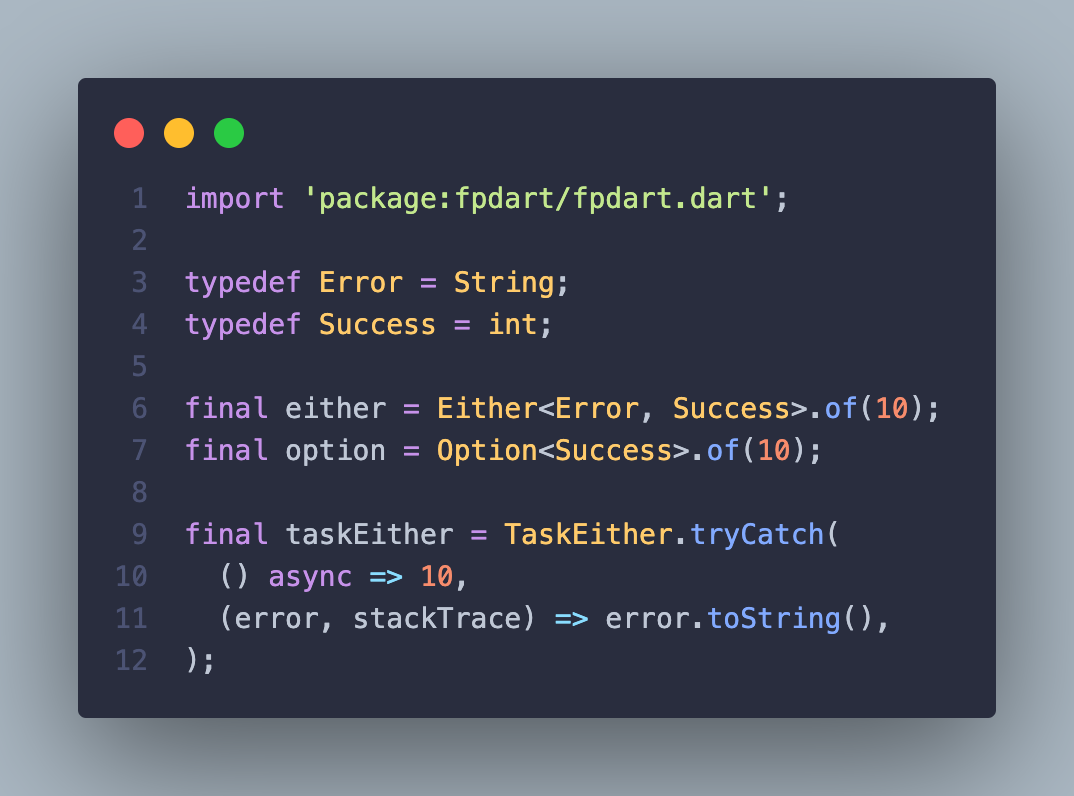
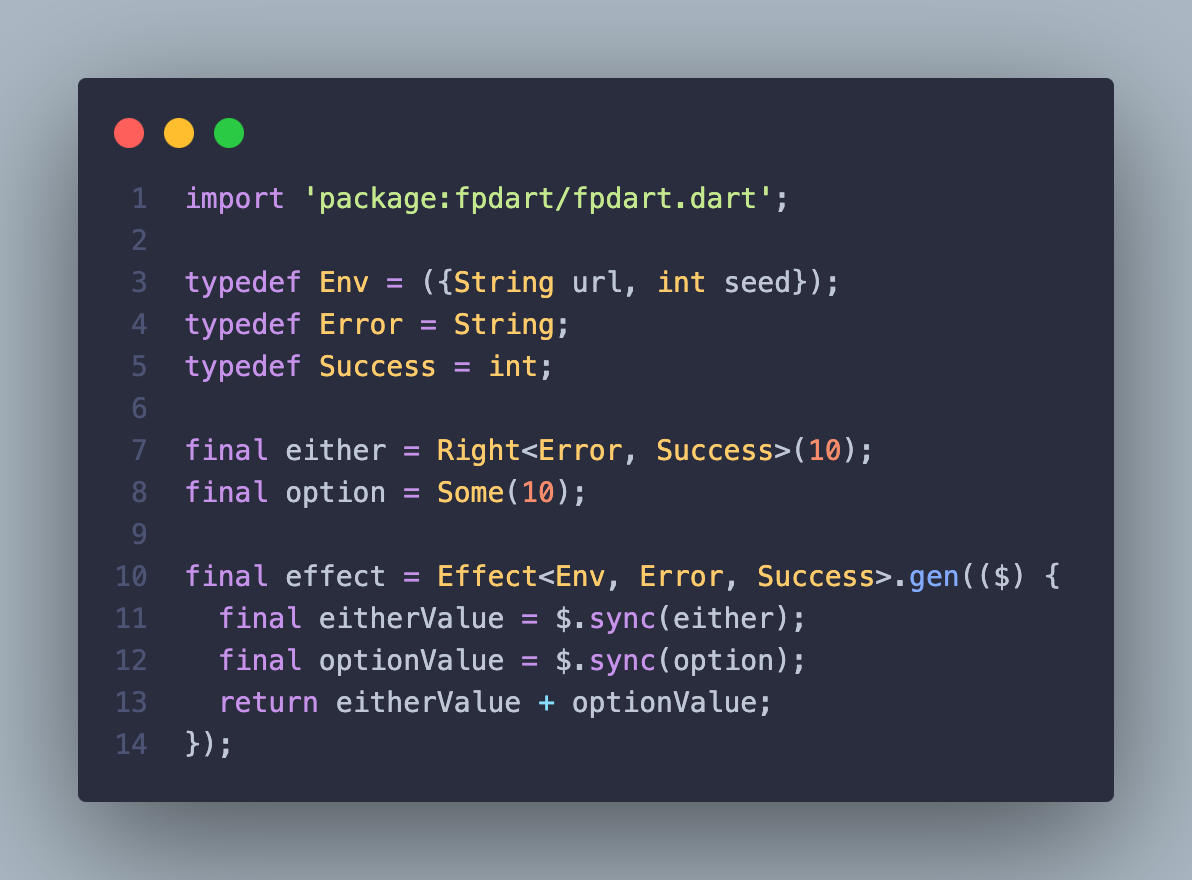
prepare v2 dev pre release

Changed region(s): [[0.0615, 0.0905, 0.9525, 0.9347], [0.1536, 0.2111, 0.7374, 0.2714], [0.5531, 0.3015, 0.7067, 0.3317]]

diff --git a/packages/fpdart/lib/src/extension/curry_extension.dart b/packages/fpdart/lib/src/extension/curry_extension.dart
@@ -1,10 +1,10 @@
-/// {@template fpdart_curry_extension}
-/// Extract first parameter from this function to allow curring.
-/// {@endtemplate}
-///
-/// {@template fpdart_curry_last_extension}
-/// Extract **last** parameter from this function to allow curring.
-/// {@endtemplate}
+// {@template fpdart_curry_extension}
+// Extract first parameter from this function to allow curring.
+// {@endtemplate}
+
+// {@template fpdart_curry_last_extension}
+// Extract **last** parameter from this function to allow curring.
+// {@endtemplate}
 
 extension CurryExtension2<Input1, Input2, Output> on Output Function(
     Input1, Input2) {

diff --git a/packages/fpdart/lib/src/effect.dart b/packages/fpdart/lib/src/effect.dart
@@ -282,11 +282,13 @@ final class Effect<E, L, R> extends IEffect<E, L, R> {
   ///
   /// {@category do_notation}
   Effect<V, L, R> provide<V>(E Function(V env) f) => Effect._(
+        // ignore: null_check_on_nullable_type_parameter
         (env) => _unsafeRun(f(env!)),
       );
 
   /// {@category do_notation}
   static Effect<E, L, E> env<E, L>() => Effect._(
+        // ignore: null_check_on_nullable_type_parameter
         (env) => Right(env!),
       );
 

diff --git a/packages/fpdart/example/main.dart b/packages/fpdart/example/main.dart
@@ -1,1 +1,14 @@
-void main() {}
+import 'package:fpdart/fpdart.dart';
+
+typedef Env = ({String url, int seed});
+typedef Error = String;
+typedef Success = int;
+
+final either = Right<Error, Success>(10);
+final option = Some(10);
+
+final effect = Effect<Env, Error, Success>.gen(($) {
+  final eitherValue = $.sync(either);
+  final optionValue = $.sync(option);
+  return eitherValue + optionValue;
+});

diff --git a/packages/fpdart/README.md b/packages/fpdart/README.md
@@ -6,11 +6,11 @@
 
 
 <p align="center">
-<strong>Functional programming in Dart and Flutter</strong>
+<strong>Functional Effect System in Dart and Flutter (v2)</strong>
 </p>
 
 <p align="center">
-All the main functional programming types and patterns <strong>fully documented</strong>, tested, and with examples
+Functional Effect System <strong>fully documented</strong>, tested, and with examples, to write complex type-safe dart applications
 </p>
 
 <h3 align="center">
@@ -35,11 +35,13 @@ All the main functional programming types and patterns <strong>fully documented<
   </a>
 </p>
 
+> 🏗 Pre-release version of `fpdart v2`
+
 ## Introduction
 
-> **fpdart is fully documented. You do not need to have any previous experience with functional programming to start using `fpdart`. Give it a try!**
+> **fpdart is fully documented. You do not need to have any previous experience with functional effect systems to start using `fpdart`. Give it a try!**
 
-fpdart is inspired by [fp-ts](https://gcanti.github.io/fp-ts/), [cats](https://typelevel.org/cats/typeclasses.html#type-classes-in-cats), and [dartz](https://github.com/spebbe/dartz).
+fpdart is inspired by [effect](https://www.effect.website/) and [dartz](https://github.com/spebbe/dartz).
 
 > Follow my [**Twitter**](https://twitter.com/SandroMaglione) for updates, or [subscribe to the newsletter](https://www.sandromaglione.com/newsletter)
 
@@ -120,10 +122,8 @@ Interested in what `fpdart` is and how it came to be?
 
 ## 💻 Installation
 
-```yaml
-# pubspec.yaml
-dependencies:
-  fpdart: ^1.1.0
+```shell
+dart pub add fpdart:'^2.0.0'
 ```
 
 ## ✨ Examples
@@ -498,6 +498,10 @@ A well explained documentation is the key for the long-term success of the proje
 In general, **any contribution or feedback is welcome** (and encouraged!).
 
 ## 📃 Versioning
+
+- v2.0.0-dev.1 - 23 March 2024
+
+***
 
 - v1.1.0 - 13 August 2023
 - **v1.0.0** - 26 July 2023

diff --git a/packages/fpdart/CHANGELOG.md b/packages/fpdart/CHANGELOG.md
@@ -1,3 +1,7 @@
+## v2.0.0-dev.1 - 23 March 2024
+- Initial preview release of `fpdart` v2
+  - Refactoring to use `Effect` class
+
 ## v1.1.0 - 13 August 2023
 
 - Improved performance of some iterable based functions in `Iterable` and `Map` extension (thanks to [lrhn](https://github.com/lrhn) 🎉)
